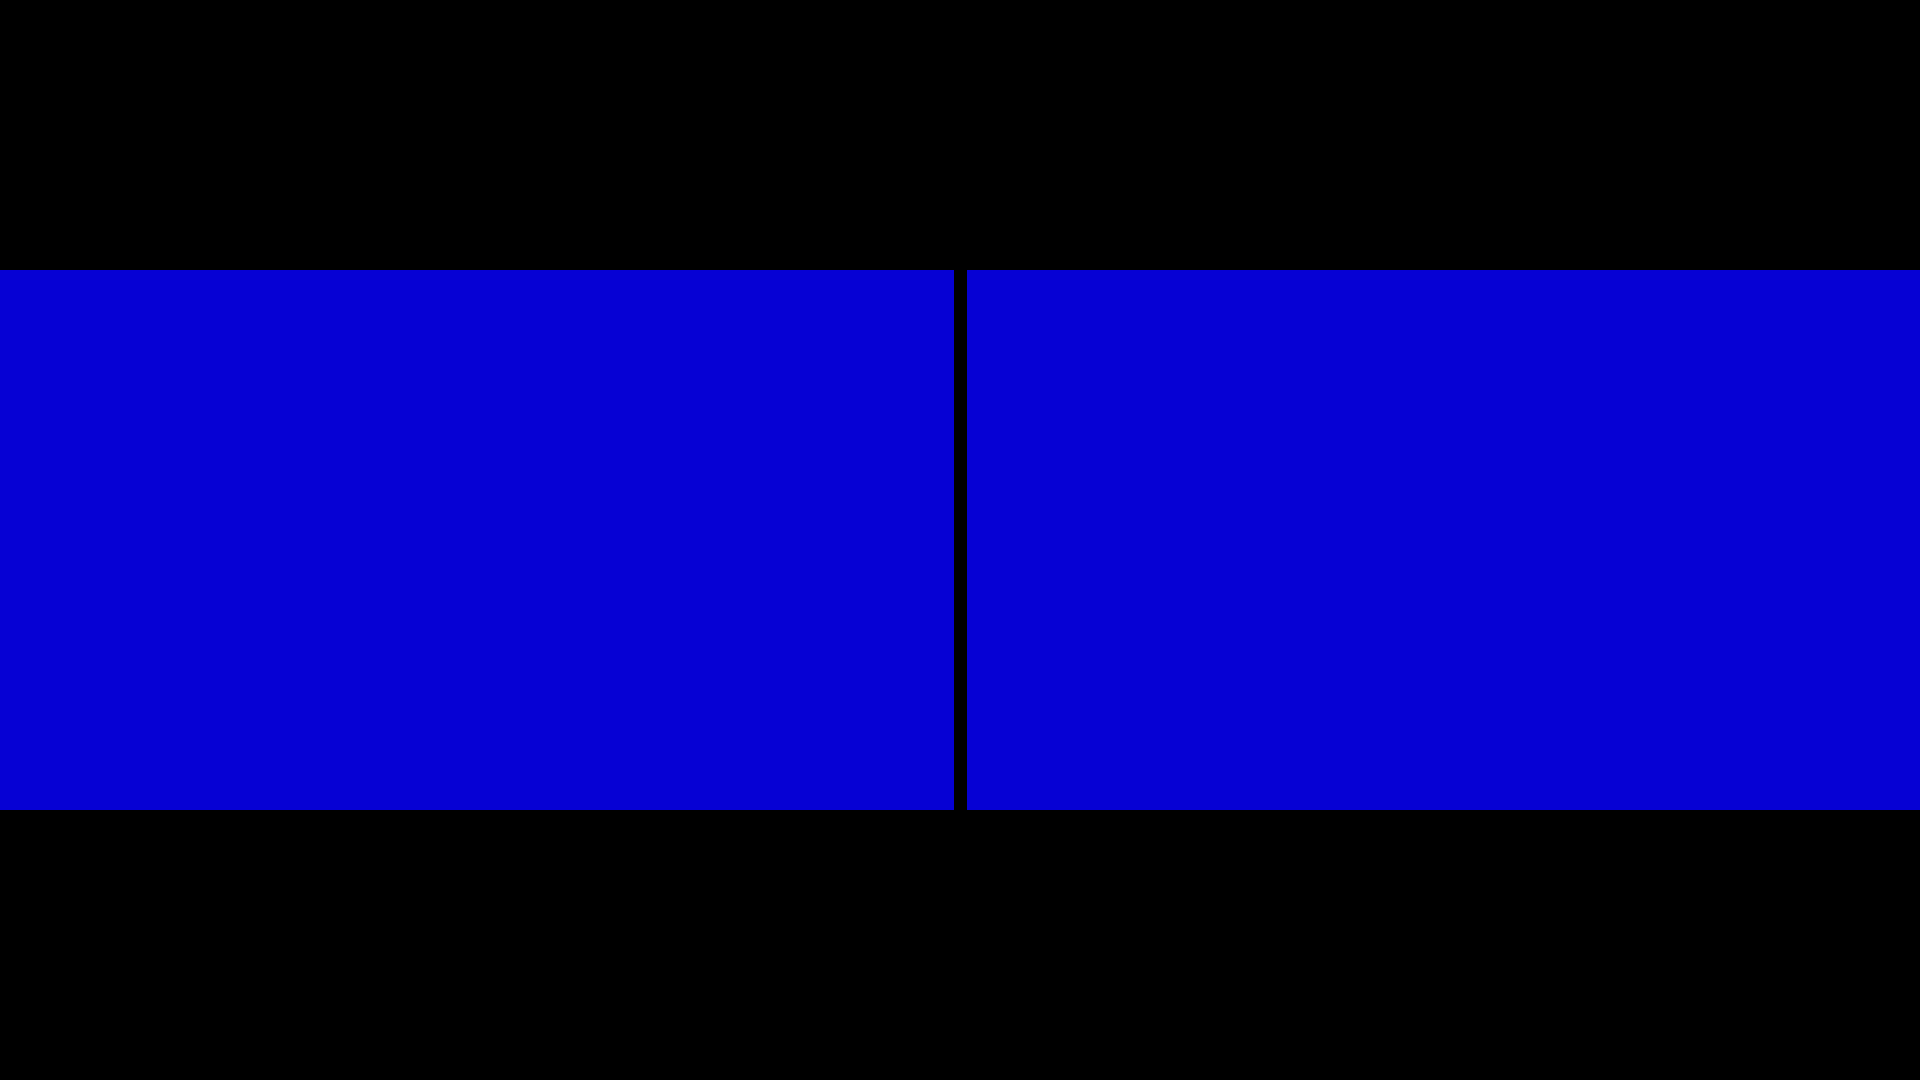
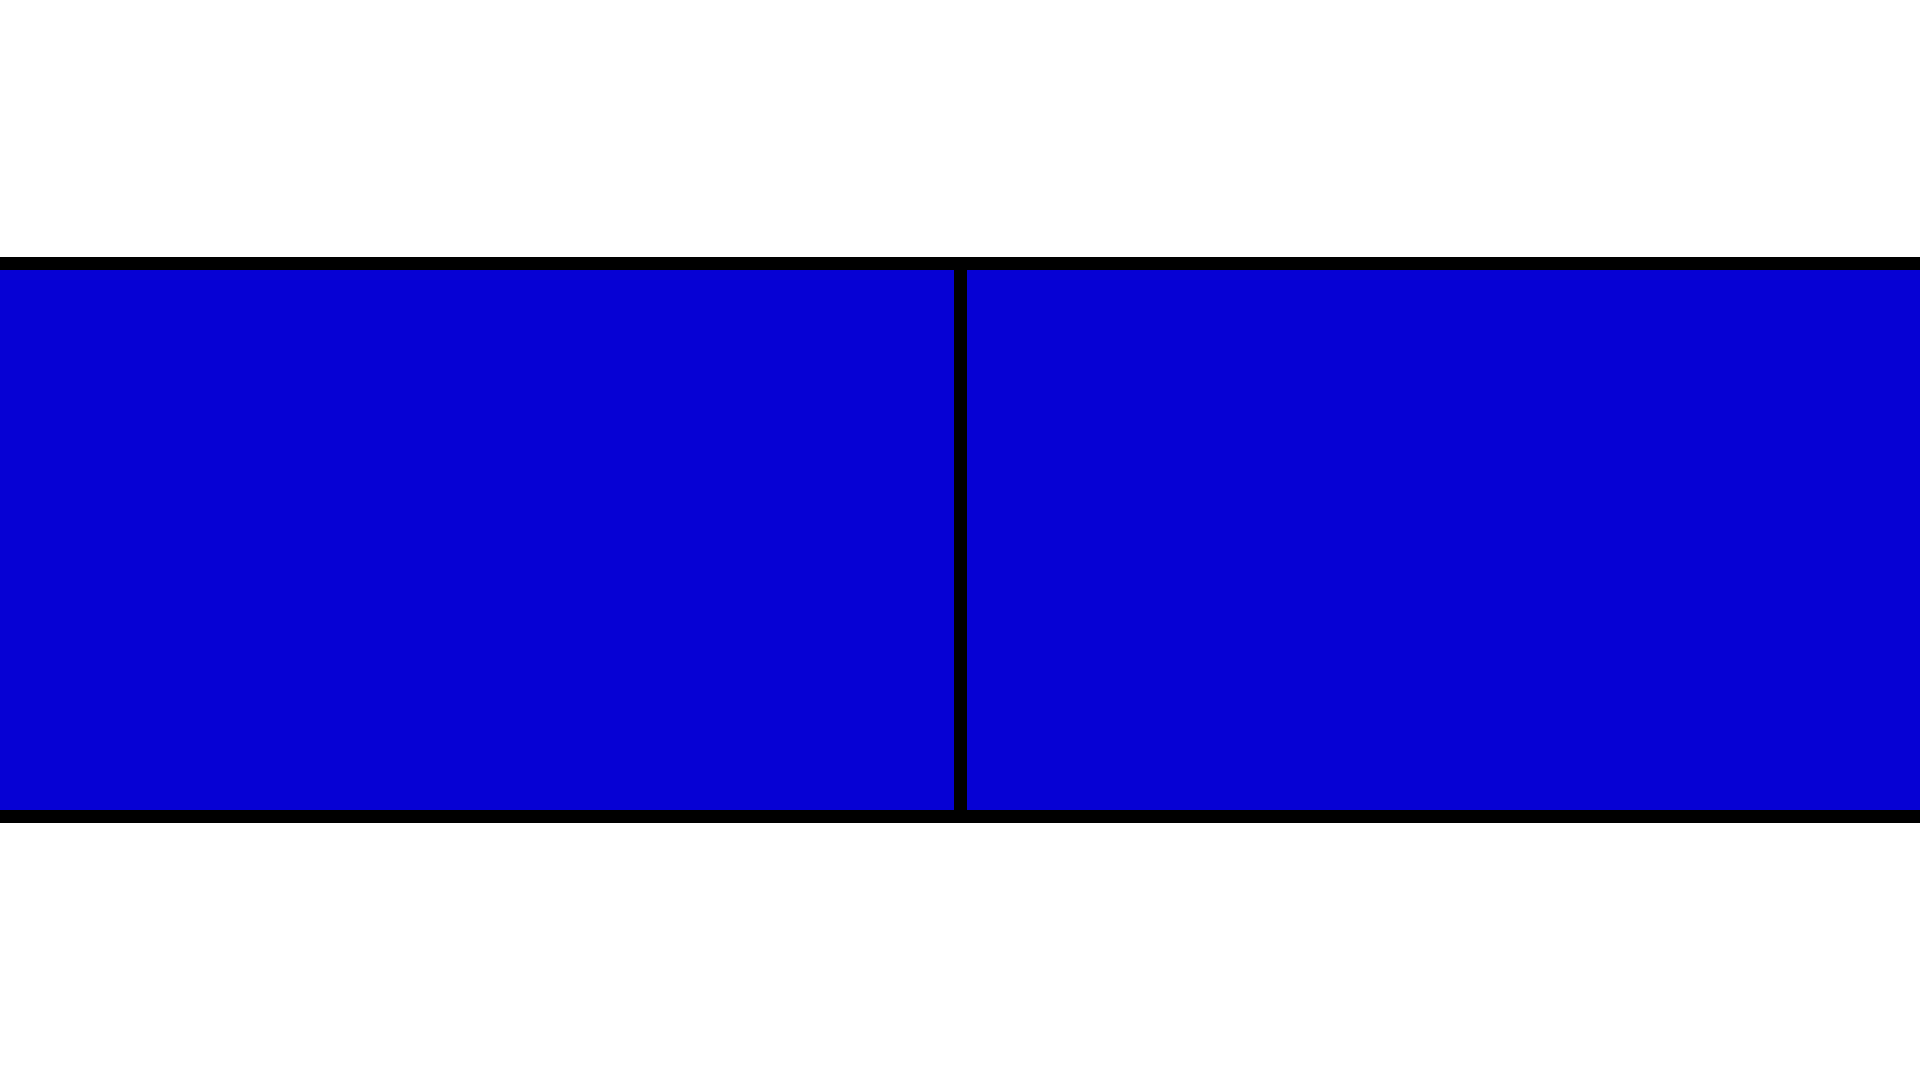
- added SBB to pids_1a

diff --git a/assets/jsblock/scripts/sbb_1a.js b/assets/jsblock/scripts/sbb_1a.js
@@ -1,0 +1,89 @@
+include(Resources.id("jsblock:scripts/pids_util.js"));
+
+function create(ctx, state, pids) {
+}
+
+function render(ctx, state, pids) {
+    Texture.create("Background")
+    .texture("jsblock:assets/sbb_1a.png")
+    .size(pids.width, pids.height)
+    .draw(ctx);
+
+    let arrival_first = pids.arrivals().get(0);
+    if(arrival_first != null) {
+        Texture.create("arrival_first Circle Colored")
+        .texture("jsblock:assets/general/long_quad_full.png")
+        .pos(3, 5.5)
+        .size(18, 6)
+        .color(arrival_first.routeColor())
+        .draw(ctx);
+
+        Text.create("arrival_first Number Text")
+        .text(arrival_first.routeNumber())
+        .pos(12, 6.1)
+        .centerAlign()
+        .size(13.7, 4.8)
+        .scale(1.3)
+        .scaleXY()
+        .color(0xFFFFFF)
+        .draw(ctx);
+
+        Text.create("arrival_first destination")
+        .text(TextUtil.cycleString(arrival_first.destination()))
+        .pos(3, 14.5)
+        .size(55, 6)
+        .scale(1.5)
+        .scaleXY()
+        .color(0xFFFFFF)
+        .draw(ctx);
+
+        if (pids.station() && arrival_first.route()) {
+            let stationClean = pids.station().getName().normalize("NFC").trim();
+            let stops = arrival_first.route().getPlatforms().toArray().map(p => p.stationName);
+            let currentIndex = stops.findIndex(s => s.normalize("NFC").trim() === stationClean);
+            let nextStops = stops.slice(currentIndex + 1);
+            let displayStops = [];
+
+            if (nextStops.length <= 6) {
+                displayStops = nextStops;
+            } else {
+                let step = (nextStops.length - 1) / 5;
+                for (let i = 0; i < 5; i++) {
+                    let index = Math.round(i * step);
+                    displayStops.push(nextStops[index].replace("|", " "));
+                }
+                displayStops.push(nextStops[nextStops.length - 1]);
+            }
+
+            for (let line = 0; line < displayStops.length; line++) {
+                let stop = displayStops[line].normalize("NFC").trim().replace("|", " ");
+
+                Text.create("stop_line_" + line)
+                    .text(stop)
+                    .pos(96, 5.5 + 7.5 * line)
+                    .size(86, 7.25)
+                    .scaleXY()
+                    .color(0xFFFFFF)
+                    .draw(ctx);
+            }
+        }
+
+        let etas = arrival_first.departureTime()
+        let eta = new Date(etas)
+        let hours = eta.getHours()
+        let minutes = eta.getMinutes()
+        let time = hours.toString().padStart(2, '0') + ":" + minutes.toString().padStart(2, '0');
+
+        Text.create("arrival ETA")
+        .text(time)
+        .color(0xffffff)
+        .pos(25, 5.5)
+        .size(25, 6)
+        .scale(1.3)
+        .scaleXY()
+        .draw(ctx);
+    }
+}
+
+function dispose(ctx, state, pids) {
+  }
